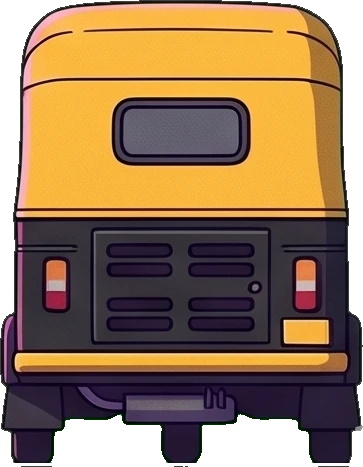
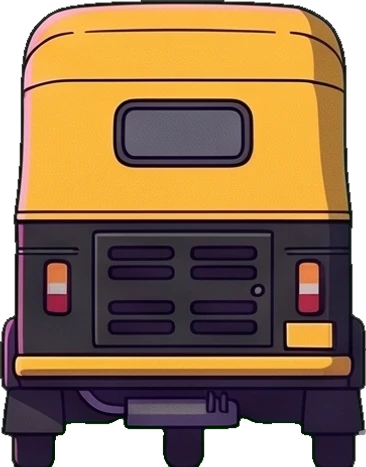
Fix traffic visibility, sprite edges and motion cleanup

diff --git a/src/components/highway/LivingTraffic.tsx b/src/components/highway/LivingTraffic.tsx
@@ -3,6 +3,7 @@ import { useSceneStore } from '../../state/useSceneStore';
 import { useStopPreferences } from '../../hooks/useStopAnimations';
 import { TRAFFIC, VEHICLES, type Vehicle } from './traffic.config';
 import './highway.css';
+const lastAppearance:Partial<Record<Vehicle,number>>={};
 interface Car { kind:Vehicle; lane:number; from:number; target:number; turn:number; depth:number; velocity:number; nextTurn:number; brake:number; active:boolean; }
 interface Box {x:number;y:number;width:number;height:number}
 const hits=(a:Box,b:Box)=>a.x<b.x+b.width+8&&a.x+a.width+8>b.x&&a.y<b.y+b.height+8&&a.y+a.height+8>b.y;
@@ -17,13 +18,12 @@ export function LivingTraffic(){
   const max=nodes.length,center=mobile?1:2,lanes=mobile?[0,2]:[0,1,3,4];
   const cars:Car[]=Array.from({length:max},()=>({kind:'sedan',lane:0,from:0,target:0,turn:1,depth:0,velocity:0,nextTurn:0,brake:0,active:false}));
   let frame=0,last=0,elapsed=0,spawn=0,frames=0,fpsClock=0,w=innerWidth,h=innerHeight,playerHeight=180,player:Box={x:0,y:0,width:0,height:0};
-  const rare:Partial<Record<Vehicle,number>>={};
   const resize=()=>{w=innerWidth;h=innerHeight;const r=document.querySelector('.rear-car svg')?.getBoundingClientRect();if(r){playerHeight=r.width*183/440*1.08;player={x:r.x+r.width*.07,y:r.y+r.height*.12,width:r.width*.86,height:r.height*.81};}};resize();
-  const project=(c:Car):Box=>{const cfg=TRAFFIC[c.kind],playerDepth=Math.max(.15,(player.y+player.height-h*.65625)/(h*.55)),scale=c.depth/playerDepth;const height=playerHeight/1.14*cfg.height*cfg.fudge*scale;return {x:w*.5+(c.lane-center)*w*(mobile?1.3:.75)*c.depth-height*cfg.aspect/2,y:h*.65625+h*.55*c.depth-height,width:height*cfg.aspect,height};};
+  const project=(c:Car):Box=>{const cfg=TRAFFIC[c.kind],playerDepth=Math.max(.15,(player.y+player.height-h*.65625)/(h*.55)),scale=c.depth/playerDepth;const height=playerHeight/1.14*cfg.height*cfg.fudge*scale;return {x:w*.5+(c.lane-center)*w*(mobile?3:.75)*c.depth-height*cfg.aspect/2,y:h*.65625+h*.55*c.depth-height,width:height*cfg.aspect,height};};
   const setCar=(index:number,kind:Vehicle,lane:number,depth:number,fast=false)=>{const c=cars[index];Object.assign(c,{kind,lane,from:lane,target:lane,turn:1,depth,velocity:(fast?-1:1)*(.022+Math.random()*.014),nextTurn:elapsed+8+Math.random()*7,brake:0,active:true});const node=nodes[index],cfg=TRAFFIC[kind];node.dataset.kind=kind;node.style.width=`${200*cfg.aspect}px`;node.style.height='200px';node.style.setProperty('--sprite',`url(/assets/traffic/${kind}.webp)`);node.querySelector('img')!.src=`/assets/traffic/${kind}.webp`;node.querySelectorAll<HTMLElement>('.tail-light').forEach((light,i)=>{light.style.left=`${cfg.lights[i]}%`;light.style.top=`${cfg.lights[2]}%`;light.style.height=`${cfg.lights[3]}%`;});};
   const draw=(dt:number)=>{
    const state=useSceneStore.getState(),occupied:Box[]=[];
-   root.style.setProperty('--night',String(state.timeOfDay));root.style.setProperty('--wetness',String(state.weather));
+   if(root.style.getPropertyValue('--night')!==String(state.timeOfDay))root.style.setProperty('--night',String(state.timeOfDay));if(root.style.getPropertyValue('--wetness')!==String(state.weather))root.style.setProperty('--wetness',String(state.weather));
    cars.map((car,i)=>({car,i})).sort((a,b)=>b.car.depth-a.car.depth).forEach(({car:c,i})=>{
     const node=nodes[i];if(!c.active){node.style.opacity='0';return;}
     if(dt){
@@ -31,7 +31,7 @@ export function LivingTraffic(){
      if(c.depth<.025||c.depth>.85){c.active=false;node.style.opacity='0';return;}
      if(elapsed>c.nextTurn && c.turn>=1){const target=c.target+(Math.random()<.5?-1:1);c.nextTurn=elapsed+8+Math.random()*7;if(lanes.includes(target)&&!cars.some(other=>other!==c&&other.active&&Math.abs(other.target-target)<.1&&Math.abs(other.depth-c.depth)<.18)){c.from=c.lane;c.target=target;c.turn=0;c.brake=.3;}}
      c.turn=Math.min(1,c.turn+dt/1.2);const ease=c.turn*c.turn*(3-2*c.turn);c.lane=c.from+(c.target-c.from)*ease;
-     const box=project(c);if(hits(box,player)||occupied.some(other=>hits(box,other))){c.depth=previous;c.brake=.3;if(c.depth>.28){c.active=false;node.style.opacity='0';return;}}
+     const box=project(c);if(occupied.some(other=>hits(box,other))){c.depth=previous;c.brake=.3;if(c.depth>.55){c.active=false;node.style.opacity='0';return;}}
      c.brake=Math.max(0,c.brake-dt);
     }
     const box=project(c);if(hits(box,player)||occupied.some(other=>hits(box,other))){node.style.opacity='0';return;}occupied.push(box);
@@ -41,12 +41,12 @@ export function LivingTraffic(){
     node.querySelector<HTMLElement>('.traffic-haze')!.style.opacity=String(Math.min(.6,Math.max(0,1-Math.pow(c.depth/.4,.6))));
    });
   };
-  ['sedan','hatch','taxi'].forEach((kind,i)=>setCar(i,kind as Vehicle,lanes[i%lanes.length],mobile?.045+i*.035:.065+i*.06));draw(0);
+  ['sedan','hatch','taxi'].forEach((kind,i)=>setCar(i,kind as Vehicle,lanes[i%lanes.length],mobile?.12+i*.045:.065+i*.06));draw(0);
   root.dataset.pool=String(max);root.dataset.frames='0';
   if(hidden||reduced||!motion)return()=>{root.dataset.frames='0';};
-  const tick=(now:number)=>{const dt=last?Math.min(.05,(now-last)/1000):0;last=now;elapsed+=dt;spawn-=dt*useSceneStore.getState().speed;
-   if(spawn<=0){spawn=1.7+Math.random()*1.4;const index=cars.findIndex(c=>!c.active);if(index>=0){const eligible=VEHICLES.filter(kind=>!['swiftship-van','rickshaw'].includes(kind)||(!cars.some(c=>c.active&&c.kind===kind)&&elapsed-(rare[kind]??-25)>=25));const sum=eligible.reduce((v,k)=>v+TRAFFIC[k].weight,0);let roll=Math.random()*sum;const kind=eligible.find(k=>(roll-=TRAFFIC[k].weight)<=0)??'sedan';const lane=lanes[Math.floor(Math.random()*lanes.length)],fast=Math.random()<.25,depth=fast?(mobile?.12:.27):.03;if(!cars.some(c=>c.active&&c.target===lane&&Math.abs(c.depth-depth)<.15)){setCar(index,kind,lane,depth,fast);rare[kind]=elapsed;}}}
-   draw(dt);frames++;fpsClock+=dt;if(fpsClock>=.5){root.dataset.fps=String(Math.round(frames/fpsClock));frames=0;fpsClock=0;}root.dataset.active=String(cars.filter(c=>c.active).length);root.dataset.frames='1';frame=requestAnimationFrame(tick);
+  const tick=(now:number)=>{const realDt=last?(now-last)/1000:0,dt=Math.min(.05,realDt);last=now;elapsed+=dt;spawn-=dt*useSceneStore.getState().speed;
+   if(spawn<=0){spawn=1.7+Math.random()*1.4;const index=cars.findIndex(c=>!c.active);if(index>=0){const eligible=VEHICLES.filter(kind=>!['swiftship-van','rickshaw'].includes(kind)||(!cars.some(c=>c.active&&c.kind===kind)&&performance.now()/1000-(lastAppearance[kind]??-25)>=25));const sum=eligible.reduce((v,k)=>v+TRAFFIC[k].weight,0);let roll=Math.random()*sum;const kind=eligible.find(k=>(roll-=TRAFFIC[k].weight)<=0)??'sedan';const lane=lanes[Math.floor(Math.random()*lanes.length)],fast=Math.random()<.25,depth=fast?(mobile?.12:.27):.03;if(!cars.some(c=>c.active&&c.target===lane&&Math.abs(c.depth-depth)<.15)){setCar(index,kind,lane,depth,fast);lastAppearance[kind]=performance.now()/1000;}}}
+   draw(dt);frames++;fpsClock+=realDt;if(fpsClock>=.5){root.dataset.fps=String(Math.round(frames/fpsClock));frames=0;fpsClock=0;}root.dataset.active=String(cars.filter(c=>c.active).length);root.dataset.frames='1';frame=requestAnimationFrame(tick);
   };frame=requestAnimationFrame(tick);window.addEventListener('resize',resize);
   return()=>{cancelAnimationFrame(frame);window.removeEventListener('resize',resize);root.dataset.frames='0';nodes.forEach(n=>n.style.opacity='0');};
  },[mobile,reduced,hidden,motion,ready,ignited,section]);

diff --git a/src/components/highway/Rain.tsx b/src/components/highway/Rain.tsx
@@ -14,15 +14,15 @@ export function Rain(){
   root.dataset.pool=String(ripples.length+lenses.length);root.dataset.rainPool=String(drops.length);root.dataset.frames='0';
   if(hidden||reduced||!motion||!ignited){ctx.clearRect(0,0,w,h);root.style.opacity='0';return;}
   root.style.opacity='1';
-  const tick=(now:number)=>{frame=requestAnimationFrame(tick);if(last&&now-last<16)return;const dt=last?Math.min(.05,(now-last)/1000):0;last=now;time+=dt;const {weather,speed}=useSceneStore.getState();ctx.clearRect(0,0,w,h);const count=Math.round(drops.length*weather);
+  const tick=(now:number)=>{frame=requestAnimationFrame(tick);if(last&&now-last<16)return;const realDt=last?(now-last)/1000:0,dt=Math.min(.05,realDt);last=now;time+=dt;const {weather,speed}=useSceneStore.getState();if(root.parentElement){if(root.parentElement.dataset.raining!==String(weather>.1))root.parentElement.dataset.raining=String(weather>.1);if(root.parentElement.style.getPropertyValue('--weather')!==String(weather))root.parentElement.style.setProperty('--weather',String(weather));}ctx.clearRect(0,0,w,h);const count=Math.round(drops.length*weather);
    for(let i=0;i<count;i++){const d=drops[i];d.y+=dt*(.25+d.z*.8)*Math.max(.2,speed);d.x+=dt*.045*d.z;if(d.y>1.05){d.y=-.05;d.x=Math.random();}if(d.x>1)d.x=0;const len=10+d.z*28;ctx.strokeStyle=`rgba(255,220,239,${(.25+d.z*.3)*weather})`;ctx.lineWidth=.5+d.z*.7;ctx.beginPath();ctx.moveTo(d.x*w,d.y*h);ctx.lineTo(d.x*w+len*.14,d.y*h+len);ctx.stroke();}
    ripples.forEach((node,i)=>{const p=(time/.6+i/12)%1,x=w*(.28+(i*.137)% .45),y=h*(.79+(i*.053)%.18);node.style.transform=`translate(${x}px,${y}px) scale(${.2+p*1.4},${.07+p*.25})`;node.style.opacity=String(weather*(1-p)*.35);});
    lenses.forEach((node,i)=>{const phase=(time/(4+i%4)+i*.19)%1,x=w*(i%2?.975:.025),y=h*(.2+phase*.5);const blocked=ui.some(r=>x>=r.left-12&&x<=r.right+12&&y>=r.top-12&&y<=r.bottom+12);node.style.transform=`translate(${x}px,${y}px)`;node.style.opacity=blocked?'0':String(Math.sin(phase*Math.PI)*weather*.5);});
-   fog.style.opacity=String(weather*.2);sheen.style.opacity=String(weather*.35);root.dataset.weather=weather.toFixed(2);root.dataset.rainActive=String(count);root.dataset.frames='1';frames++;fpsClock+=dt;if(fpsClock>=1){root.dataset.fps=String(Math.round(frames/fpsClock));frames=0;fpsClock=0;}
+   fog.style.opacity=String(weather*.2);sheen.style.opacity=String(weather*.35);root.dataset.weather=weather.toFixed(2);root.dataset.rainActive=String(count);root.dataset.frames='1';frames++;fpsClock+=realDt;if(fpsClock>=1){root.dataset.fps=String(Math.round(frames/fpsClock));frames=0;fpsClock=0;}
   };frame=requestAnimationFrame(tick);window.addEventListener('resize',resize);
   return()=>{cancelAnimationFrame(frame);window.removeEventListener('resize',resize);ctx.clearRect(0,0,w,h);root.dataset.frames='0';};
  },[mobile,reduced,hidden,motion,ignited,section]);
- return <div ref={ref} className="rain-world" aria-hidden="true"><div className="rain-fog"/><div className="rain-sheen"/><canvas className="rain-canvas"/>{Array.from({length:12},(_,i)=><span key={i} className="rain-ripple"/>)}{!mobile&&Array.from({length:6},(_,i)=><span key={i} className="lens-drop"/>)}</div>;
+ return <div ref={ref} className="rain-world" aria-hidden="true"><svg className="rain-filter-defs" aria-hidden="true"><defs><filter id="wet-traffic-ripple"><feTurbulence baseFrequency=".02 .18" numOctaves="1" seed="4" result="noise"/><feDisplacementMap in="SourceGraphic" in2="noise" scale="5" xChannelSelector="R" yChannelSelector="G"/></filter></defs></svg><svg className="weather-rail-glow" viewBox="0 0 1440 800" preserveAspectRatio="none"><path d="M0 687L628 529M1440 687L812 529" fill="none" stroke="#ff92b8" strokeWidth="5"/></svg><div className="rain-fog"/><div className="rain-sheen"/><canvas className="rain-canvas"/>{Array.from({length:12},(_,i)=><span key={i} className="rain-ripple"/>)}{!mobile&&Array.from({length:6},(_,i)=><span key={i} className="lens-drop"/>)}</div>;
 }
 export function HighwayPerf(){
  const ref=useRef<HTMLOutputElement>(null);

diff --git a/src/hooks/useSceneMotion.ts b/src/hooks/useSceneMotion.ts
@@ -3,6 +3,7 @@ import gsap from 'gsap';
 import { useSceneStore } from '../state/useSceneStore';
 import { BPM } from '../config';
 export function useSceneMotion(ref: RefObject<HTMLDivElement>) {
+  const motion=useSceneStore(state=>state.motion);
   const speed = useSceneStore(state => state.speed);
   useEffect(() => {
     const scene = ref.current;
@@ -14,6 +15,7 @@ export function useSceneMotion(ref: RefObject<HTMLDivElement>) {
   useEffect(() => {
     const scene = ref.current;
     if (!scene) return;
+    if (!motion) return;
     const mq = matchMedia('(min-width: 768px) and (pointer: fine) and (prefers-reduced-motion: no-preference)');
     const movers = Array.from(scene.querySelectorAll<HTMLElement>('[data-depth]')).map(layer => ({ depth: Number(layer.dataset.depth), x: gsap.quickTo(layer, 'x', { duration: .6, ease: 'power2.out' }), y: gsap.quickTo(layer, 'y', { duration: .6, ease: 'power2.out' }) }));
     const move = (event: PointerEvent) => {
@@ -26,5 +28,5 @@ export function useSceneMotion(ref: RefObject<HTMLDivElement>) {
     window.addEventListener('pointermove', move, { passive: true });
     document.addEventListener('pointerleave', reset);
     return () => { window.removeEventListener('pointermove', move); document.removeEventListener('pointerleave', reset); movers.forEach(mover => { mover.x.tween.kill(); mover.y.tween.kill(); }); };
-  }, [ref]);
+  }, [ref,motion]);
 }

diff --git a/src/components/highway/highway.css b/src/components/highway/highway.css
@@ -54,3 +54,10 @@
 .rain-ripple { position:absolute; left:0; top:0; width:35px; height:35px; border:1px solid #ecc5e1; border-radius:50%; opacity:0; }
 .lens-drop { position:absolute; width:7px; height:12px; border-radius:50%; background:radial-gradient(ellipse at 25% 20%,#fff8,#ccd5ee20 25%,transparent 50%,#b6a7ce44 80%,transparent); opacity:0; }
 .highway-perf { position:absolute; z-index:20; left:12px; bottom:12%; padding:6px 9px; background:#101321e8; color:#a9ffff; font:11px monospace; }
+.rain-filter-defs { position:absolute; width:0; height:0; }
+.tail-reflection { filter:url(#wet-traffic-ripple) blur(4px); }
+.weather-rail-glow { position:absolute; inset:0; width:100%; height:100%; filter:blur(3px); opacity:calc(var(--weather,0)*.3); mix-blend-mode:screen; }
+.rear-scene[data-raining='true'] .city-tile>img { filter:drop-shadow(0 0 2px #ffd6bd33); }
+.rear-scene[data-raining='true'] .sun-cuts::after { content:''; position:absolute; inset:0; background:linear-gradient(transparent,#ffd1a0); opacity:calc(var(--weather,0)*.12); }
+.rear-scene .lamp-cone { opacity:calc(.1 + var(--weather,0)*.1); }
+@media(max-width:767px),(prefers-reduced-motion:reduce) { .tail-reflection { filter:blur(3px); } }

diff --git a/src/components/scene/CameraRig.tsx b/src/components/scene/CameraRig.tsx
@@ -11,11 +11,12 @@ type SceneId = 'rear' | 'dash' | 'aerial' | 'roomly' | 'swiftship' | 'signalrout
 const scenes: Record<SceneId, () => ReactNode> = { rear: RearScene, dash: DashScene, aerial: AerialScene, roomly: RoomlyStop, swiftship: SwiftShipStop, signalroute: SignalRouteStop };
 function SceneFrame({ id, active, remove }: { id: SceneId; active: boolean; remove: (id: SceneId) => void }) {
   const ref = useRef<HTMLDivElement>(null);
+  const motion=useSceneStore(state=>state.motion);
   useLayoutEffect(() => {
-    const tween = gsap.to(ref.current, { opacity: active ? 1 : 0, duration: matchMedia('(prefers-reduced-motion: reduce)').matches ? 0 : TRANSITION_DURATION,
+    const tween = gsap.to(ref.current, { opacity: active ? 1 : 0, duration: !motion || matchMedia('(prefers-reduced-motion: reduce)').matches ? 0 : TRANSITION_DURATION,
       ease: 'power3.inOut', onComplete: () => { if (!active) remove(id); } });
     return () => { tween.kill(); };
-  }, [id, active, remove]);
+  }, [id, active, remove, motion]);
   const Component = scenes[id];
   return <div ref={ref} className="scene-frame" data-scene={id} data-active={active} style={{ zIndex: active ? 2 : 1 }}><Component/></div>;
 }

diff --git a/src/components/highway/traffic.config.ts b/src/components/highway/traffic.config.ts
@@ -2,12 +2,12 @@ export type Vehicle = 'sedan'|'hatch'|'taxi'|'camper'|'truck'|'swiftship-van'|'r
 export const ONCOMING_SIDE: 'left'|'right' = 'left';
 export const TRAFFIC = {
  sedan:{height:1.4,aspect:620/338,weight:.22,fudge:1,lights:[8,43,53,8]},
- hatch:{height:1.45,aspect:474/321,weight:.2,fudge:1,lights:[5,47,56,10]},
+ hatch:{height:1.45,aspect:467/321,weight:.2,fudge:1,lights:[5,47,56,10]},
  taxi:{height:1.6,aspect:639/441,weight:.16,fudge:1,lights:[5,66,53,10]},
  camper:{height:2.7,aspect:511/483,weight:.1,fudge:1,lights:[6,63,61,8]},
  truck:{height:3.4,aspect:611/700,weight:.1,fudge:1,lights:[6,60,78,5]},
  'swiftship-van':{height:2.5,aspect:582/599,weight:.04,fudge:1,lights:[3,65,62,12]},
- rickshaw:{height:1.75,aspect:363/467,weight:.04,fudge:1,lights:[9,78,60,9]}
+ rickshaw:{height:1.75,aspect:366/467,weight:.04,fudge:1,lights:[9,78,60,9]}
 } as const;
 export const VEHICLES=Object.keys(TRAFFIC) as Vehicle[];
 export const HIGHWAY_LIMITS={traffic:10,mobileTraffic:4,lamps:8,mobileLamps:4,oncoming:6,mobileOncoming:3};
